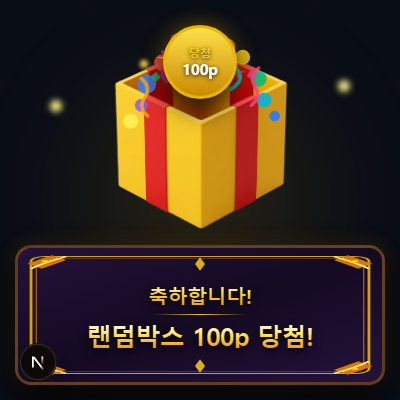
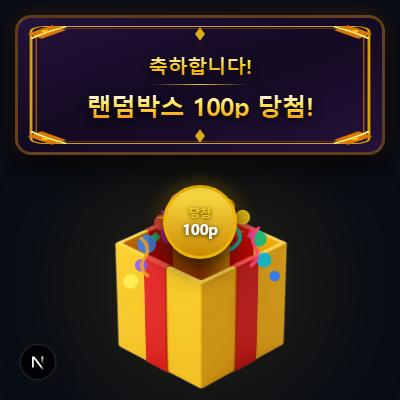
style: 럭키박스 당첨 배너 구도를 1번 이미지와 동일하게 축하 멘트 카드 상단 / 열린 상자 및 코인 하단 배치로 수정 및 배너 일괄 재발행

diff --git a/app/render-banners/page.tsx b/app/render-banners/page.tsx
@@ -174,10 +174,10 @@ function LuckyBoxBanner({ amount }: { amount: number }) {
       <div style={{ width: 400, height: 400, backgroundColor: '#090d16', position: 'relative', display: 'flex', alignItems: 'center', justifyContent: 'center', overflow: 'hidden' }}>
         
         {/* 아우라 빛 효과 */}
-        <div className="absolute w-52 h-52 rounded-full bg-yellow-500/15 blur-3xl" />
+        <div className="absolute w-52 h-52 rounded-full bg-yellow-500/15 blur-3xl" style={{ position: 'absolute', top: '180px' }} />
 
         {/* 선물 상자 이미지 (HTML) */}
-        <div className="relative w-48 h-52 select-none overflow-visible z-0" style={{ position: 'absolute', top: '30px' }}>
+        <div className="relative w-48 h-52 select-none overflow-visible z-0" style={{ position: 'absolute', top: '190px' }}>
           {/* 상자 몸통 (열린 상태 배너이므로 몸통만 표시) */}
           <img 
             src="/images/playground/random_box_bottom.png" 
@@ -187,7 +187,7 @@ function LuckyBoxBanner({ amount }: { amount: number }) {
         </div>
 
         {/* 폭죽 파티클 (정적 - SVG로 겹쳐 그림) */}
-        <svg viewBox="0 0 200 240" className="w-56 h-64 select-none relative overflow-visible z-10 pointer-events-none" style={{ position: 'absolute', top: '20px' }}>
+        <svg viewBox="0 0 200 240" className="w-56 h-64 select-none relative overflow-visible z-10 pointer-events-none" style={{ position: 'absolute', top: '180px' }}>
           {/* 폭죽 파티클 (정적 - 상자에서 위로 사방 부채꼴로 퍼져나감, 크기 상향 조정) */}
           {/* 원형 파티클 */}
           <circle cx="65" cy="40" r="8" fill="#ef4444" opacity="0.9" />
@@ -225,7 +225,7 @@ function LuckyBoxBanner({ amount }: { amount: number }) {
         <div 
           className="absolute left-1/2 -translate-x-1/2 pointer-events-none z-20 flex flex-col items-center justify-center"
           style={{
-            top: '25px', // 박스 입구 바로 위로 올림
+            top: '185px', // 박스 입구 바로 위로 올림
           }}
         >
           <div className="w-[74px] h-[74px] rounded-full bg-gradient-to-b from-yellow-300 to-yellow-600 border-[3.5px] border-yellow-500 shadow-[0_10px_25px_rgba(0,0,0,0.85),_0_0_20px_rgba(234,179,8,0.45)] flex flex-col items-center justify-center bg-[#1e1b4b]">
@@ -240,7 +240,7 @@ function LuckyBoxBanner({ amount }: { amount: number }) {
         <div className="absolute z-20 top-[60px] left-[140px] w-2 h-2 bg-amber-300 rounded-full blur-[2px] animate-pulse"></div>
 
         {/* 축하 배너 카드 */}
-        <BannerCard gameLabel="랜덤박스" rewardLabel={rewardLabel} className="bottom-[15px] h-[140px] z-[40]" />
+        <BannerCard gameLabel="랜덤박스" rewardLabel={rewardLabel} className="top-[15px] h-[140px] z-[40]" />
       </div>
     </div>
   );
